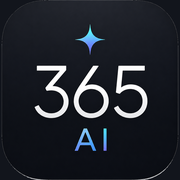
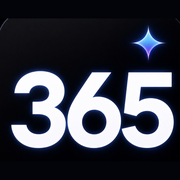
V5.6.7

diff --git a/app.js b/app.js
@@ -542,6 +542,76 @@ function render() {
   }
 }
 
+// V6.4.7: fast iPhone navigation. Keep the app shell mounted and replace only
+// the page body when switching bottom tabs. This avoids rebuilding the header,
+// bottom navigation, keypad and modal root on every tap.
+function bindFastViewContent() {
+  document.querySelector("[data-profile-order-toggle]")?.addEventListener("click", () => {
+    state.profileOrderMode = state.profileOrderMode === "ai" ? "default" : "ai";
+    saveState();
+    render();
+  });
+  document.querySelectorAll("[data-profile]").forEach(btn => btn.addEventListener("click", () => {
+    const id = Number(btn.dataset.profile);
+    state.activeProfile = id;
+    if (state.currentView === "home") {
+      const latestDraw = getLatestCompleteActualDraw(id);
+      if (latestDraw) {
+        state.lastInput = [...String(latestDraw.number), ...String(latestDraw.twoDigit)];
+        state.calculationDate = latestDraw.date || isoDate();
+        state.grid = calculateGrid(state.lastInput, id);
+        state.selectedL = null;
+      } else {
+        state.lastInput = ["","","","",""];
+        state.grid = null;
+        state.calculationDate = null;
+        state.selectedL = null;
+      }
+    }
+    saveState();
+    render();
+    if (state.currentView === "home" && !getLatestCompleteActualDraw(id)) {
+      showToast(`ยังไม่มีเลขออกจริงล่าสุดของ ${state.profiles[id] || "Profile"}`);
+    }
+  }));
+  document.querySelectorAll("[data-record]").forEach(el => el.addEventListener("click", () => openRecordDetail(el.dataset.record)));
+}
+
+function centerActiveProfileTab() {
+  if (!["home", "weekly", "history", "analysis"].includes(state.currentView)) return;
+  requestAnimationFrame(() => {
+    const activeTab = document.querySelector('.profile-tabs [data-profile].active');
+    const tabStrip = activeTab?.closest('.profile-tabs');
+    if (!activeTab || !tabStrip) return;
+    const left = activeTab.offsetLeft - (tabStrip.clientWidth - activeTab.offsetWidth) / 2;
+    tabStrip.scrollLeft = Math.max(0, left);
+  });
+}
+
+function navigateToView(nextView) {
+  if (!nextView || nextView === state.currentView) return;
+  closeNumericKeypad();
+  state.currentView = nextView;
+  const main = document.querySelector("main.main");
+  if (!main) { render(); return; }
+
+  // Render only the changed view. Updating nav state is a few class toggles,
+  // so taps feel immediate even on iPhone/PWA standalone mode.
+  main.innerHTML = renderView();
+  document.querySelectorAll(".bottom-nav [data-view]").forEach(btn => {
+    btn.classList.toggle("active", btn.dataset.view === state.currentView);
+  });
+  bindFastViewContent();
+  bindView();
+  centerActiveProfileTab();
+
+  main.classList.remove("view-enter-fast");
+  requestAnimationFrame(() => {
+    main.classList.add("view-enter-fast");
+    window.setTimeout(() => main.classList.remove("view-enter-fast"), 130);
+  });
+}
+
 function navButton(view, icon, label) {
   return `<button class="nav-item ${state.currentView === view ? "active" : ""}" data-view="${view}"><span>${icon}</span><small>${label}</small></button>`;
 }
@@ -1883,10 +1953,7 @@ function bindCommon() {
     render();
   });
   document.querySelectorAll("[data-view]").forEach(btn => btn.addEventListener("click", () => {
-    const nextView = btn.dataset.view;
-    if (!nextView || nextView === state.currentView) return;
-    state.currentView = nextView;
-    render();
+    navigateToView(btn.dataset.view);
   }));
   document.querySelectorAll("[data-profile]").forEach(btn => btn.addEventListener("click", () => {
     const id = Number(btn.dataset.profile);
@@ -1950,31 +2017,6 @@ function bindView() {
       const id=Number(state.activeProfile), saved=state.aiFormulaLab?.[id], check=formulaEligibility(saved);
       if (!check.allowed) return alert(check.reason);
       if (!confirm(`ใช้สูตร AI เป็นสูตรหลักของ ${state.profiles[id]} หรือไม่?\n\nสูตรดั้งเดิมจะยังถูกเก็บไว้และย้อนกลับได้ตลอด`)) return;
-      state.activeFormulaByProfile = state.activeFormulaByProfile || {};
-      state.activeFormulaByProfile[id]="ai";
-      state.grid=calculateGrid(state.lastInput,id); saveState(); render();
-    });
-    document.getElementById("restoreOriginalFormula")?.addEventListener("click",()=>{
-      const id=Number(state.activeProfile);
-      if (!confirm("กลับมาใช้สูตรดั้งเดิมหรือไม่? สูตร AI ทดลองจะยังถูกเก็บไว้")) return;
-      state.activeFormulaByProfile = state.activeFormulaByProfile || {};
-      state.activeFormulaByProfile[id]="original";
-      state.grid=calculateGrid(state.lastInput,id); saveState(); render();
-    });
-    document.getElementById("previewAIFormula")?.addEventListener("click",()=>{
-      const saved=state.aiFormulaLab?.[Number(state.activeProfile)];
-      if (!saved?.formula) return alert("ยังไม่มีสูตร AI");
-      const grid=formulaGrid(state.lastInput,saved.formula);
-      if (!grid) return alert("กรุณากรอกตัวเลข 5 หลักในหน้า Calculate ก่อน");
-      state.grid=grid; saveState(); state.currentView="home"; render();
-      showToast("ทดลองคำนวณด้วยสูตร AI ครั้งนี้แล้ว โดยยังไม่เปลี่ยนสูตรหลัก");
-    });
-    document.getElementById("activateAIFormula")?.addEventListener("click",()=>{
-      const id=Number(state.activeProfile), saved=state.aiFormulaLab?.[id], check=formulaEligibility(saved);
-      if (!check.allowed) return alert(check.reason);
-      if (!confirm(`ใช้สูตร AI เป็นสูตรหลักของ ${state.profiles[id]} หรือไม่?
-
-สูตรดั้งเดิมจะยังถูกเก็บไว้และย้อนกลับได้ตลอด`)) return;
       state.activeFormulaByProfile = state.activeFormulaByProfile || {};
       state.activeFormulaByProfile[id]="ai";
       state.grid=calculateGrid(state.lastInput,id); saveState(); render();
@@ -3518,4 +3560,5 @@ startApplication().catch(error => {
   bindGlobalKeypad();
 });
 
+// LuckyNumber V6.4.7: fast navigation + 365 app icon; AI controls de-duplicated.
 // LuckyNumber V4.25: simple result entry; reference-table selection is available only in Edit.

diff --git a/index.html b/index.html
@@ -8,14 +8,14 @@
   <meta name="apple-mobile-web-app-capable" content="yes">
   <meta name="apple-mobile-web-app-status-bar-style" content="default">
   <meta name="apple-mobile-web-app-title" content="LuckyNumber">
-  <title>LuckyNumber Pro V6.4.6</title>
+  <title>LuckyNumber Pro V6.4.7</title>
   <link rel="manifest" href="manifest.json">
   <link rel="apple-touch-icon" sizes="180x180" href="icons/apple-touch-icon.png">
   <link rel="icon" type="image/png" sizes="32x32" href="icons/favicon-32.png">
-  <link rel="stylesheet" href="style.css?v=6460">
+  <link rel="stylesheet" href="style.css?v=6470">
 </head>
 <body>
   <div id="app"></div>
-  <script src="app.js?v=6460"></script>
+  <script src="app.js?v=6470"></script>
 </body>
 </html>

diff --git a/style.css b/style.css
@@ -1129,3 +1129,8 @@ button.disabled,button:disabled{opacity:.45;pointer-events:none}
   .formula-table-compare .result-history-row.formula-compare .status,
   .formula-table-compare .result-history-row.formula-compare .formula-winner{font-size:7.3px;padding-left:1px;padding-right:1px}
 }
+
+/* V6.4.7 — fast iPhone tab navigation: content-only repaint, 120 ms native-feel settle */
+.main.view-enter-fast{animation:viewEnterFast .12s cubic-bezier(.2,.8,.2,1)}
+@keyframes viewEnterFast{from{opacity:.965;transform:translate3d(0,2px,0)}to{opacity:1;transform:translate3d(0,0,0)}}
+@media (prefers-reduced-motion:reduce){.main.view-enter-fast{animation:none}}

diff --git a/sw.js b/sw.js
@@ -1,4 +1,4 @@
-const CACHE = "lucky-number-v6-4-6-icon-files-20260807";
+const CACHE = "lucky-number-v6-4-7-fast-nav-365-icon-20260807";
 const ASSETS = ["./", "./index.html", "./style.css", "./app.js", "./manifest.json", "./icons/icon-192.png", "./icons/icon-512.png", "./icons/apple-touch-icon.png", "./icons/favicon-32.png"];
 self.addEventListener("install", e => e.waitUntil(caches.open(CACHE).then(c => c.addAll(ASSETS)).then(()=>self.skipWaiting())));
 self.addEventListener("activate", e => e.waitUntil(caches.keys().then(keys=>Promise.all(keys.filter(k=>k!==CACHE).map(k=>caches.delete(k)))).then(()=>self.clients.claim())));
